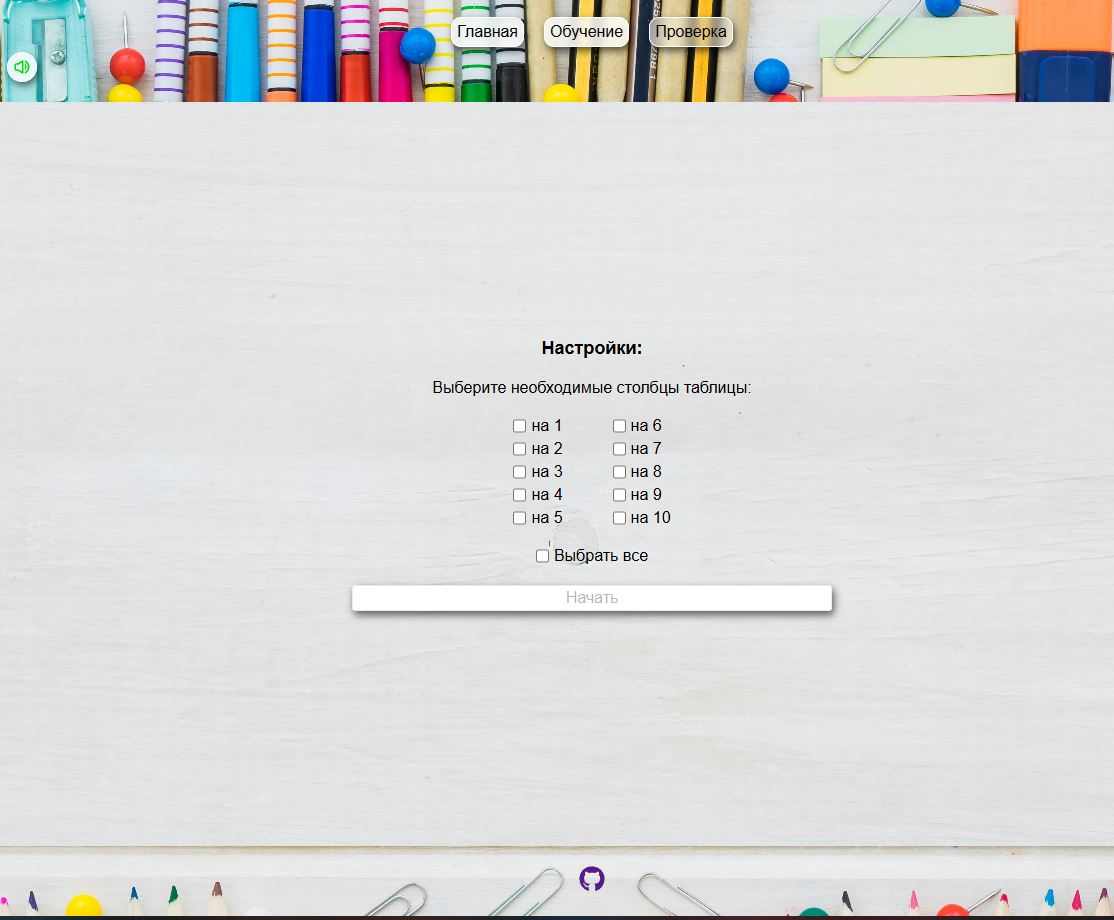
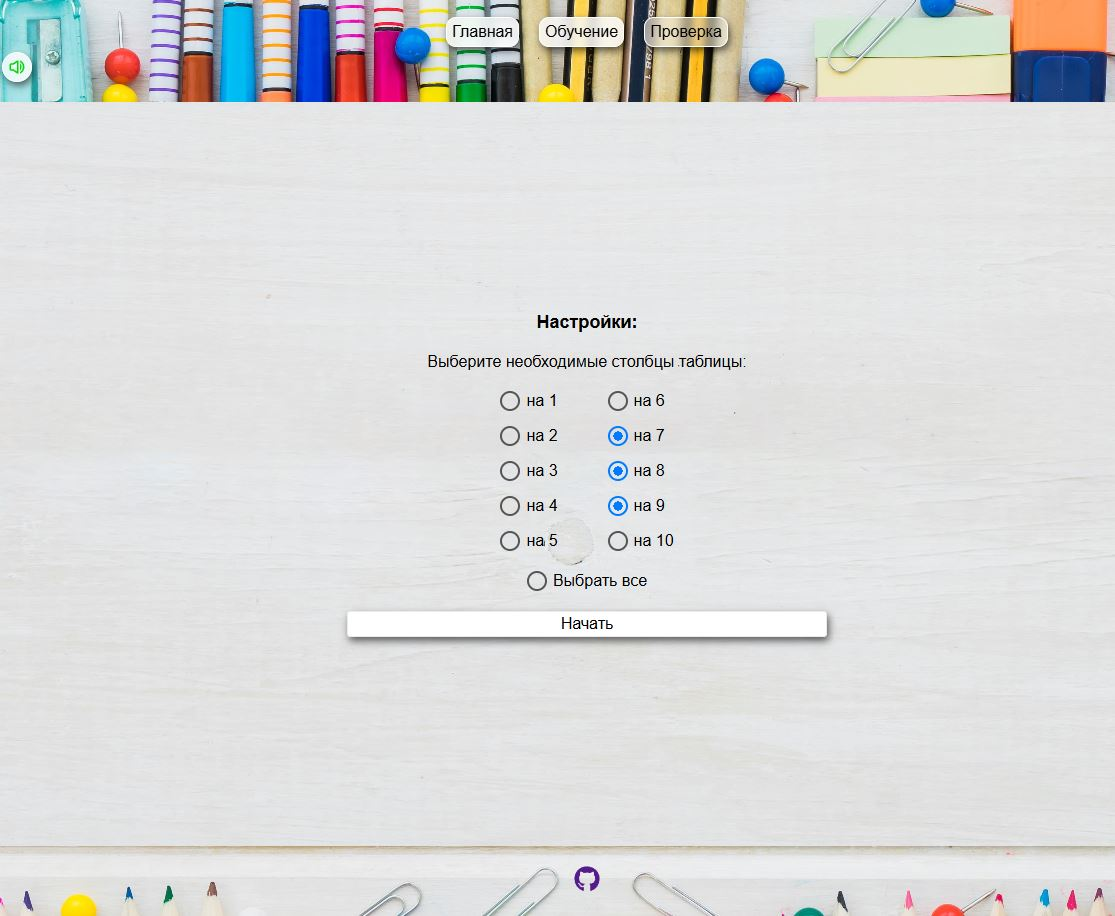
add styling checkbox

diff --git a/src/components/SettingsTestPage/SettingsTestPage.jsx b/src/components/SettingsTestPage/SettingsTestPage.jsx
@@ -51,7 +51,7 @@ export default function SettingsTestPage({ settingsHandler }) {
                 name="number"
                 onChange={checkboxHandler}
               />
-              на 1
+              <span>на 1</span>
             </label>
             <label>
               <input
@@ -61,7 +61,7 @@ export default function SettingsTestPage({ settingsHandler }) {
                 value={2}
                 onChange={checkboxHandler}
               />
-              на 2
+              <span>на 2</span>
             </label>
             <label>
               <input
@@ -71,7 +71,7 @@ export default function SettingsTestPage({ settingsHandler }) {
                 value={3}
                 onChange={checkboxHandler}
               />
-              на 3
+              <span>на 3</span>
             </label>
             <label>
               <input
@@ -81,7 +81,7 @@ export default function SettingsTestPage({ settingsHandler }) {
                 value={4}
                 onChange={checkboxHandler}
               />
-              на 4
+              <span>на 4</span>
             </label>
             <label>
               <input
@@ -91,7 +91,7 @@ export default function SettingsTestPage({ settingsHandler }) {
                 value={5}
                 onChange={checkboxHandler}
               />
-              на 5
+              <span>на 5</span>
             </label>
           </div>
           <div className={styles.column}>
@@ -103,7 +103,7 @@ export default function SettingsTestPage({ settingsHandler }) {
                 value={6}
                 onChange={checkboxHandler}
               />
-              на 6
+              <span>на 6</span>
             </label>
             <label>
               <input
@@ -113,7 +113,7 @@ export default function SettingsTestPage({ settingsHandler }) {
                 value={7}
                 onChange={checkboxHandler}
               />
-              на 7
+              <span>на 7</span>
             </label>
             <label>
               <input
@@ -123,7 +123,7 @@ export default function SettingsTestPage({ settingsHandler }) {
                 value={8}
                 onChange={checkboxHandler}
               />
-              на 8
+              <span>на 8</span>
             </label>
             <label>
               <input
@@ -133,7 +133,7 @@ export default function SettingsTestPage({ settingsHandler }) {
                 value={9}
                 onChange={checkboxHandler}
               />
-              на 9
+              <span>на 9</span>
             </label>
             <label>
               <input
@@ -143,7 +143,7 @@ export default function SettingsTestPage({ settingsHandler }) {
                 value={10}
                 onChange={checkboxHandler}
               />
-              на 10
+              <span>на 10</span>
             </label>
           </div>
         </div>
@@ -155,7 +155,7 @@ export default function SettingsTestPage({ settingsHandler }) {
             value="all"
             onChange={allCheckboxHandler}
           />
-          {isAllChacked ? "Снять все" : "Выбрать все"}
+          <span>{isAllChacked ? "Снять все" : "Выбрать все"}</span>
         </label>
 
         <button

diff --git a/src/components/SettingsTestPage/SettingsTestPage.module.css b/src/components/SettingsTestPage/SettingsTestPage.module.css
@@ -40,13 +40,50 @@
   justify-content: center;
   gap: 50px;
 }
-.form label {
+/* .form label {
   display: flex;
   gap: 5px;
-}
+} */
 
 .column {
   display: flex;
   flex-direction: column;
-  gap: 5px;
+  gap: 15px;
+}
+
+input[type="checkbox"] {
+  position: absolute;
+  opacity: 0;
+  width: 0;
+  height: 0;
+}
+
+label {
+  display: flex;
+  align-items: center;
+  cursor: pointer;
+  user-select: none;
+  font-size: 16px;
+  position: relative;
+}
+
+label > span {
+  display: flex;
+  align-items: center;
+}
+label span::before {
+  content: "";
+  display: inline-block;
+  width: 20px;
+  height: 20px;
+  border: 2px solid #555;
+  border-radius: 50%;
+  box-sizing: border-box;
+  transition: border-color 0.2s;
+  margin-right: 6px;
+}
+
+input[type="checkbox"]:checked + span::before {
+  border-color: #007bff;
+  background: radial-gradient(circle, #007bff 40%, transparent 41%);
 }

diff --git a/README.md b/README.md
@@ -1,13 +1,5 @@
 # Сайт для изучения таблицы умножения
 
-## еще в разработке
-
-TO DO:
-
-- добавить стили для checkbox
-
-##
-
 ![](/public/demo1.JPG)
 ![](/public/demo2.JPG)
 ![](/public/demo3.JPG)
